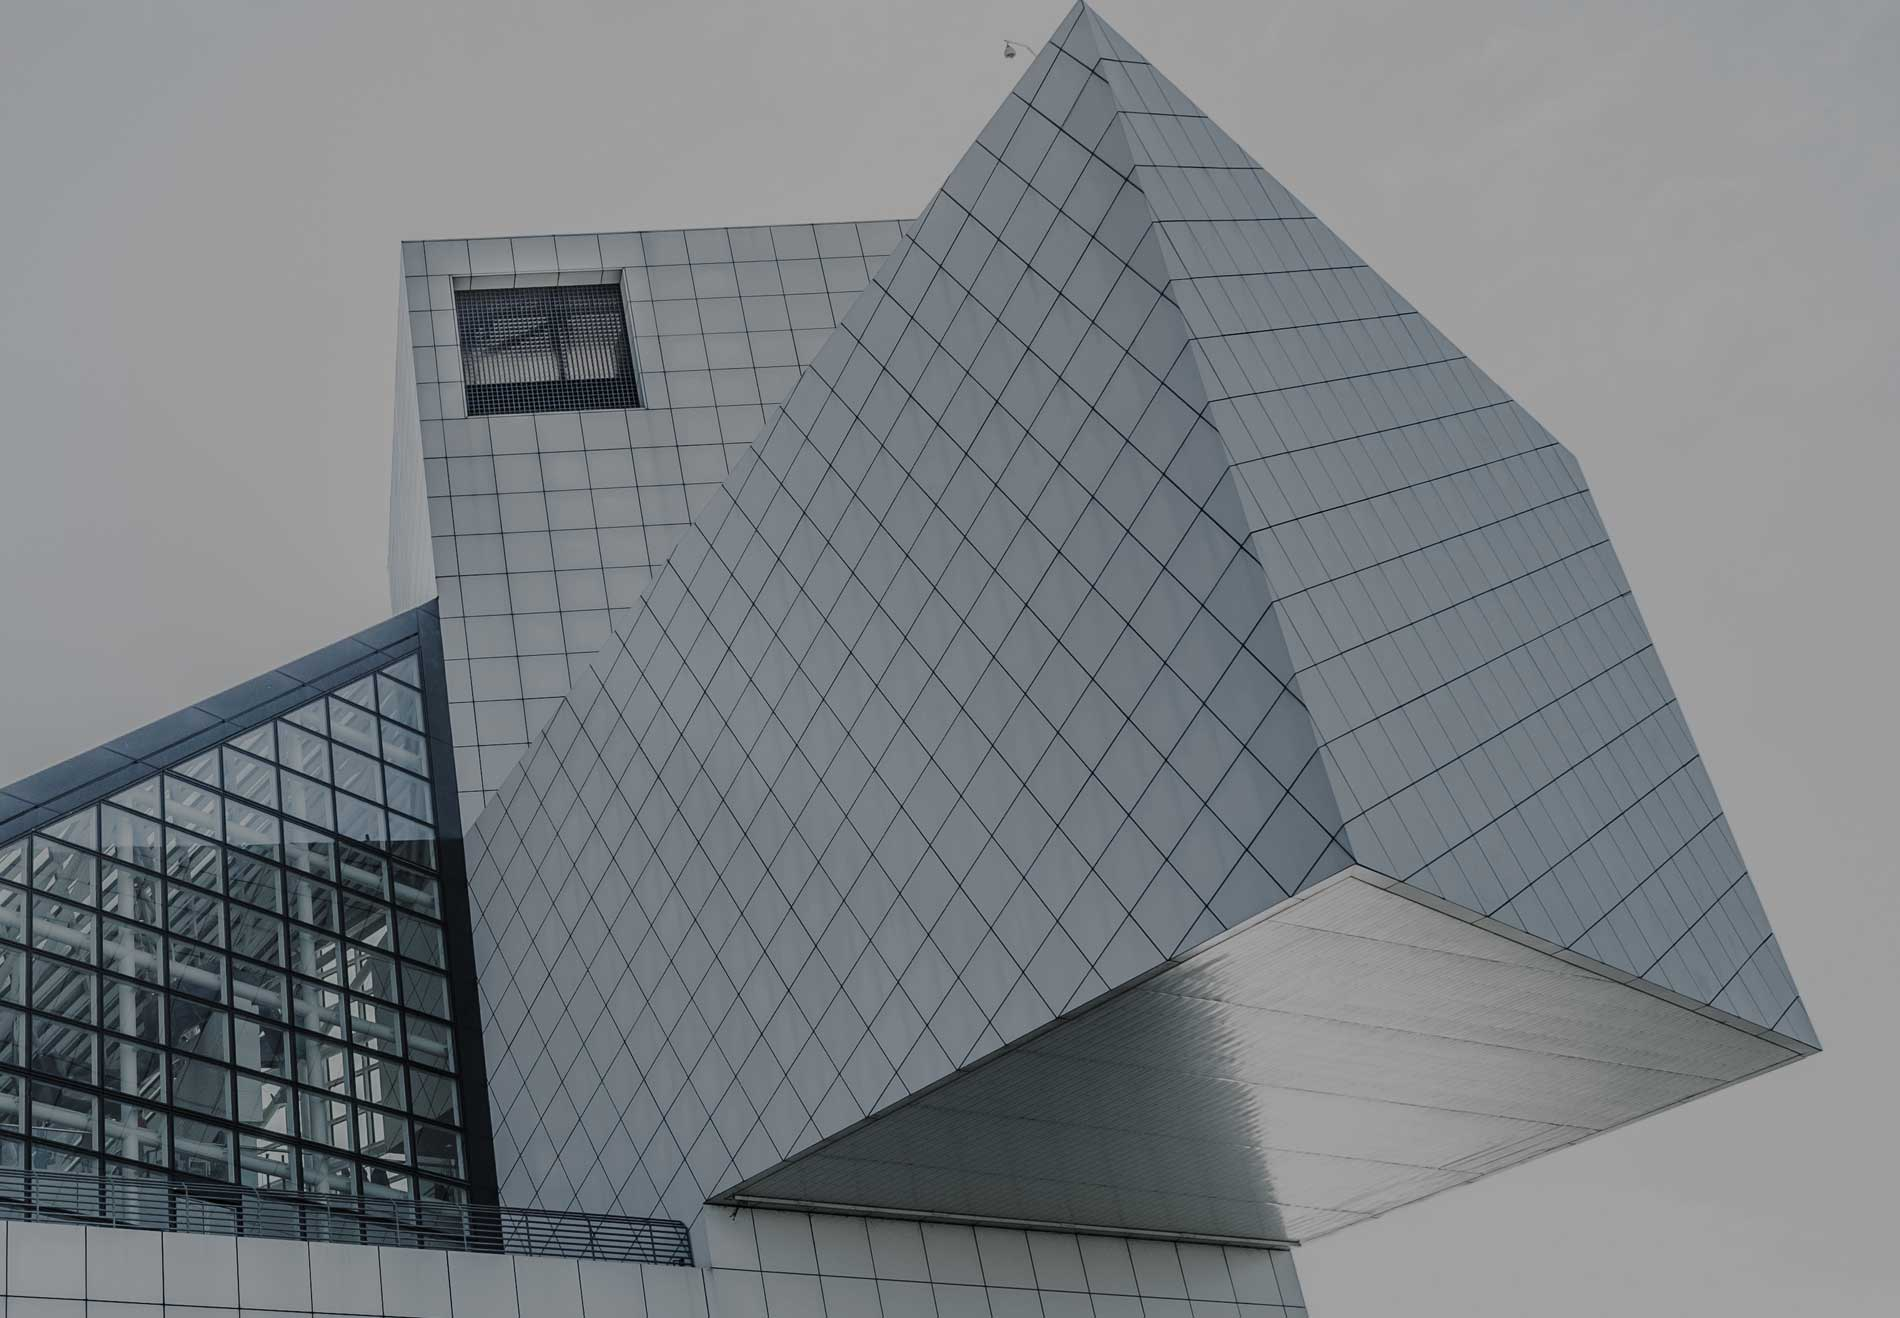
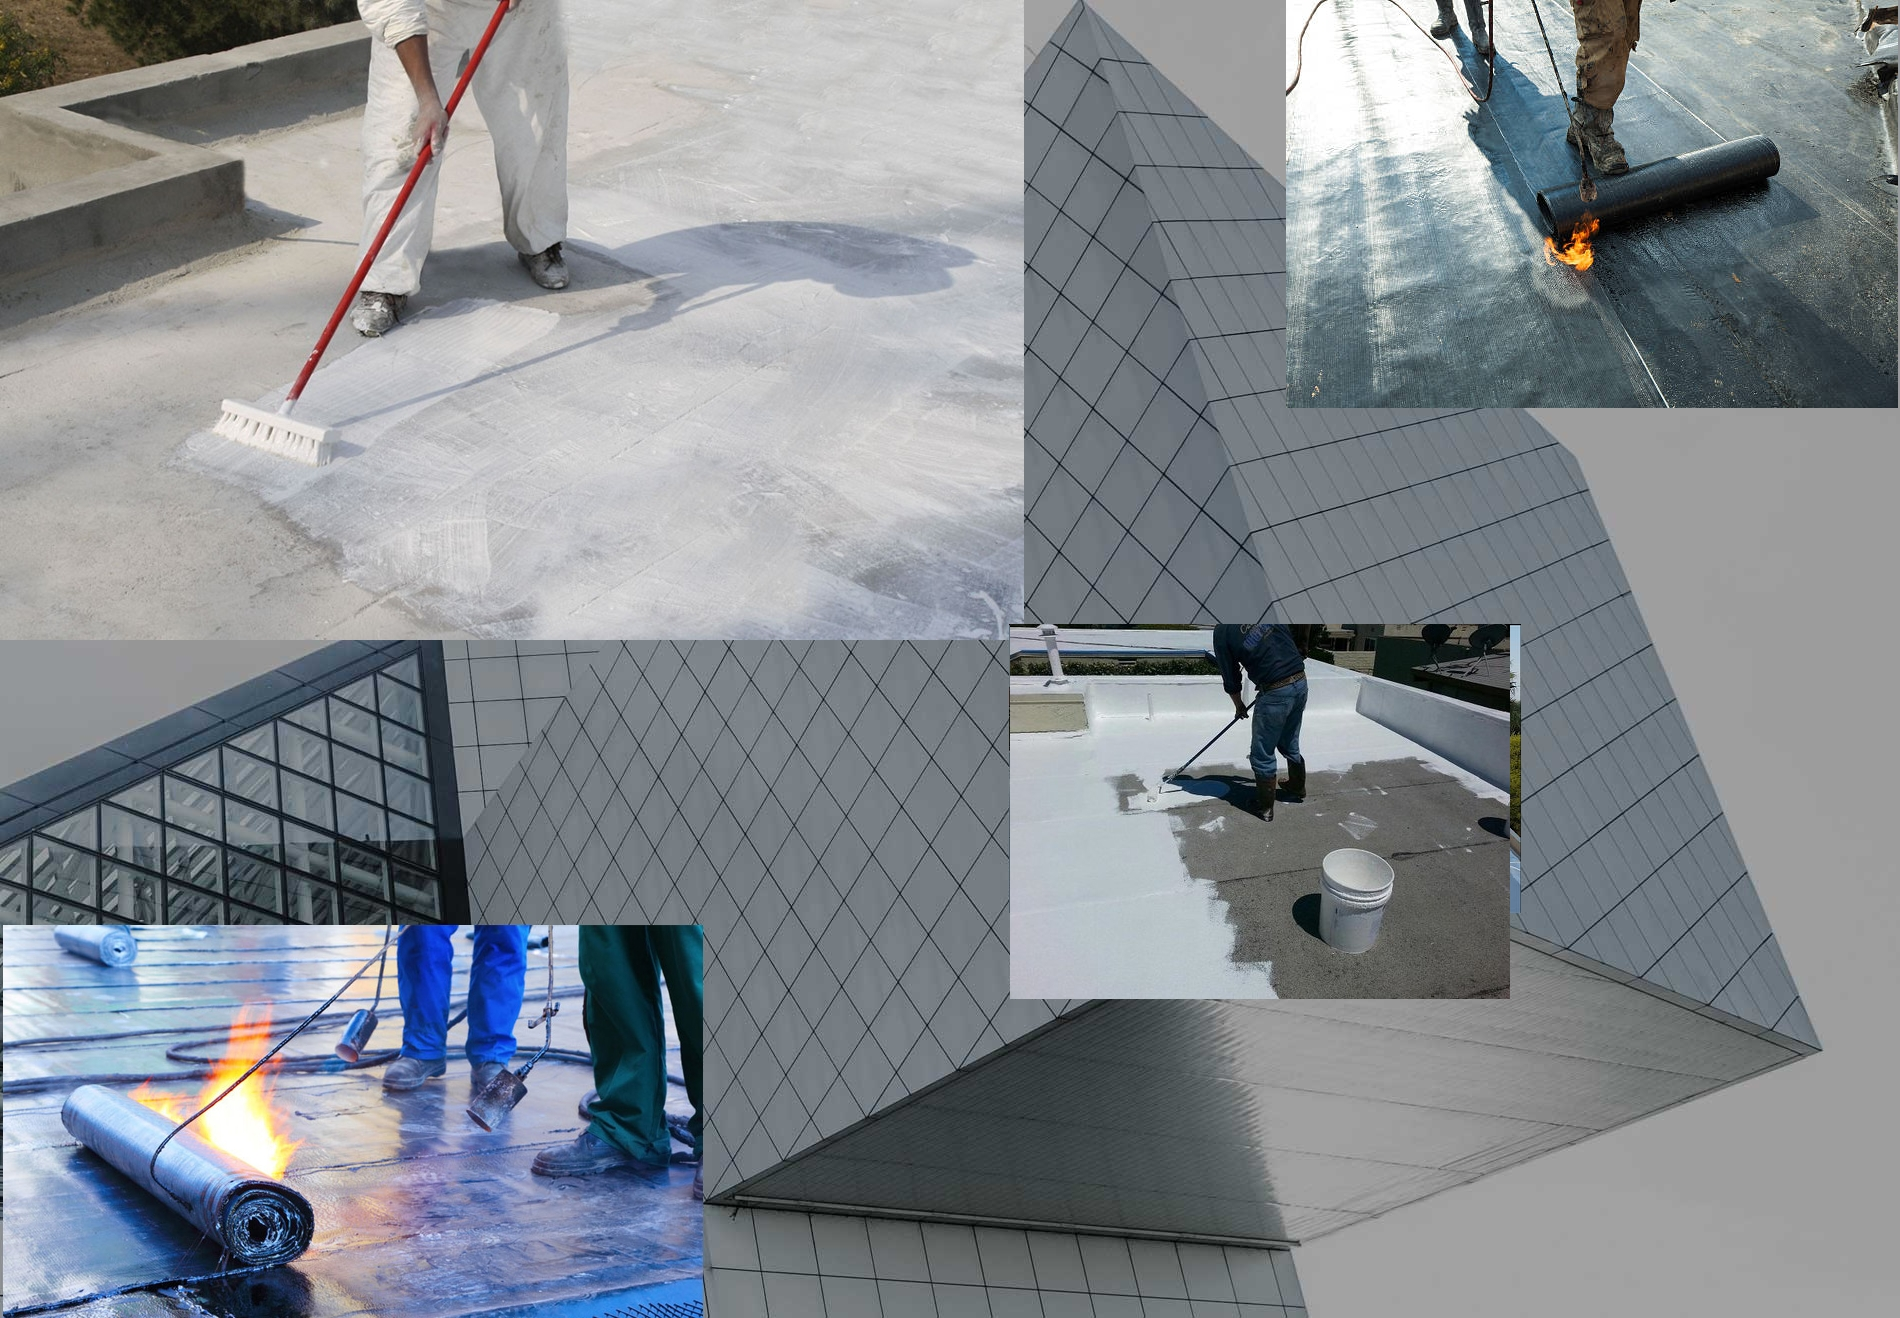
thrid

diff --git a/services-1.html b/services-1.html
@@ -1,0 +1,302 @@
+<!doctype html>
+<html lang="en">
+  <head>
+    <title>Pivot &mdash; Website Template by Colorlib</title>
+    <meta charset="utf-8">
+    <meta name="viewport" content="width=device-width, initial-scale=1, shrink-to-fit=no">
+
+    <link href="https://fonts.googleapis.com/css?family=K2D:400,700|Niramit:300,700" rel="stylesheet">
+
+    <link rel="stylesheet" href="css/bootstrap.css">
+    <link rel="stylesheet" href="css/animate.css">
+    <link rel="stylesheet" href="css/owl.carousel.min.css">
+    <link rel="stylesheet" href="css/bootstrap-datepicker.css">
+    <link rel="stylesheet" href="css/jquery.timepicker.css">
+
+    <link rel="stylesheet" href="fonts/ionicons/css/ionicons.min.css">
+    <link rel="stylesheet" href="fonts/fontawesome/css/font-awesome.min.css">
+
+    <link rel="stylesheet" href="fonts/flaticon/font/flaticon.css">
+
+    <!-- Theme Style -->
+    <link rel="stylesheet" href="css/style.css">
+
+  </head>
+  <body>
+
+    <header role="banner">
+      <nav class="navbar navbar-expand-lg navbar-light bg-light">
+        <div class="container">
+          <a class="navbar-brand position-absolute" href="index.html">Pivot</a>
+          <button class="navbar-toggler" type="button" data-toggle="collapse" data-target="#navbarsExample05" aria-controls="navbarsExample05" aria-expanded="false" aria-label="Toggle navigation">
+            <span class="navbar-toggler-icon"></span>
+          </button>
+
+          <div class="collapse navbar-collapse position-relative" id="navbarsExample05">
+            <ul class="navbar-nav mx-auto pl-lg-5 pl-0 d-flex align-items-center">
+              <li class="nav-item">
+                <a class="nav-link" href="index.html">Home</a>
+              </li>
+              <li class="nav-item dropdown">
+                <a class="nav-link dropdown-toggle active" href="services.html" id="dropdown04" data-toggle="dropdown" aria-haspopup="true" aria-expanded="false">Services</a>
+                <div class="dropdown-menu" aria-labelledby="dropdown04">
+                  <a class="dropdown-item" href="services-1.html">Pre-Construction</a>
+                  <a class="dropdown-item" href="services.html">General Construction</a>
+                  <a class="dropdown-item" href="services.html">House Renovation</a>
+                  <a class="dropdown-item" href="services.html">Plumbing</a>
+                </div>
+
+              </li>
+              <li class="nav-item">
+                <a class="nav-link" href="works.html">Projects</a>
+              </li>
+              <li class="nav-item">
+                <a class="nav-link" href="news.html">News</a>
+              </li>
+              <li class="nav-item">
+                <a class="nav-link" href="about.html">About</a>
+              </li>
+              <li class="nav-item">
+                <a class="nav-link" href="contact.html">Contact</a>
+              </li>
+              <li class="nav-item cta-btn2">
+                <a class="nav-link" href="get-quote.html">
+                  <span class="d-inline-block px-4 py-2 border">Quotation</span>
+                </a>
+              </li>
+            </ul>
+          </div>
+        </div>
+      </nav>
+    </header>
+    <!-- END header -->
+
+    <section class="inner-page">
+      <div class="slider-item py-5" style="background-image: url('img/slider-2.jpg');">
+
+        <div class="container">
+          <div class="row slider-text align-items-center justify-content-center text-center">
+            <div class="col-md-7 col-sm-12 element-animate">
+              <h1 class="text-white">Our Services</h1>
+            </div>
+          </div>
+        </div>
+
+      </div>
+    </section>
+
+    <section class="section bg-light">
+      <div class="container">
+        <div class="row">
+
+          <div class="col-lg-4 col-md-6 col-12 mb-3 element-animate">
+            <div class="media d-block media-feature text-center">
+              <span class="flaticon-blueprint icon"></span>
+              <div class="media-body">
+                <h3 class="mt-0 text-black">House Renovation</h3>
+                <p>Lorem ipsum dolor sit amet, consectetur adipisicing elit.</p>
+                <p><a href="#" class="btn btn-outline-primary btn-sm">Learn More</a></p>
+              </div>
+            </div>
+          </div>
+
+          <div class="col-lg-4 col-md-6 col-12 mb-3 element-animate">
+            <div class="media d-block media-feature text-center">
+              <span class="flaticon-building-1 icon"></span>
+              <div class="media-body">
+                <h3 class="mt-0 text-black">Construction Consultant</h3>
+                <p>Lorem ipsum dolor sit amet, consectetur adipisicing elit.</p>
+                <p><a href="#" class="btn btn-outline-primary btn-sm">Learn More</a></p>
+              </div>
+            </div>
+          </div>
+
+          <div class="col-lg-4 col-md-6 col-12 mb-3 element-animate">
+            <div class="media d-block media-feature text-center">
+              <span class="flaticon-crane icon"></span>
+              <div class="media-body">
+                <h3 class="mt-0 text-black">General Contracting</h3>
+                <p>Lorem ipsum dolor sit amet, consectetur adipisicing elit.</p>
+                <p><a href="#" class="btn btn-outline-primary btn-sm">Learn More</a></p>
+              </div>
+            </div>
+          </div>
+
+          <div class="col-lg-4 col-md-6 col-12 mb-3 element-animate">
+            <div class="media d-block media-feature text-center">
+              <span class="flaticon-helmet icon"></span>
+              <div class="media-body">
+                <h3 class="mt-0 text-black">Laminate Flooring</h3>
+                <p>Lorem ipsum dolor sit amet, consectetur adipisicing elit.</p>
+                <p><a href="#" class="btn btn-outline-primary btn-sm">Learn More</a></p>
+              </div>
+            </div>
+          </div>
+
+          <div class="col-lg-4 col-md-6 col-12 mb-3 element-animate">
+            <div class="media d-block media-feature text-center">
+              <span class="flaticon-building icon"></span>
+              <div class="media-body">
+                <h3 class="mt-0 text-black">Metal Roofing</h3>
+                <p>Lorem ipsum dolor sit amet, consectetur adipisicing elit.</p>
+                <p><a href="#" class="btn btn-outline-primary btn-sm">Learn More</a></p>
+              </div>
+            </div>
+          </div>
+
+          <div class="col-lg-4 col-md-6 col-12 mb-3 element-animate">
+            <div class="media d-block media-feature text-center">
+              <span class="flaticon-engineer icon"></span>
+              <div class="media-body">
+                <h3 class="mt-0 text-black">General Contracting</h3>
+                <p>Lorem ipsum dolor sit amet, consectetur adipisicing elit.</p>
+                <p><a href="#" class="btn btn-outline-primary btn-sm">Learn More</a></p>
+              </div>
+            </div>
+          </div>
+        </div>
+      </div>
+    </section>
+    <!-- END section -->
+
+    <section class="section border-t">
+      <div class="container">
+        <div class="row justify-content-center mb-5 element-animate">
+          <div class="col-md-8 text-center">
+            <h2 class="text-uppercase heading border-bottom mb-4">See Our Recent Works</h2>
+            <p class="mb-3 lead">Lorem ipsum dolor sit amet, consectetur adipisicing elit. Commodi unde impedit, necessitatibus, soluta sit quam minima expedita atque corrupti reiciendis.</p>
+            <p><a href="works.html" class="btn btn-primary">View All Works</a></p>
+          </div>
+        </div>
+
+        <div class="row no-gutters">
+          <div class="col-md-4 element-animate">
+            <a href="works-single.html" class="link-thumbnail">
+              <h3>Wood Polishing</h3>
+              <span class="ion-plus icon"></span>
+              <img src="img/work_thumb_1.jpg" alt="Image placeholder" class="img-fluid">
+            </a>
+          </div>
+          <div class="col-md-4 element-animate">
+            <a href="works-single.html" class="link-thumbnail">
+              <h3>General Construction Building</h3>
+              <span class="ion-plus icon"></span>
+              <img src="img/work_thumb_2.jpg" alt="Image placeholder" class="img-fluid">
+            </a>
+          </div>
+          <div class="col-md-4 element-animate">
+            <a href="works-single.html" class="link-thumbnail">
+              <h3>House Renovation</h3>
+              <span class="ion-plus icon"></span>
+              <img src="img/work_thumb_3.jpg" alt="Image placeholder" class="img-fluid">
+            </a>
+          </div>
+        </div>
+
+      </div>
+    </section>
+    <!-- END section -->
+
+
+    <section class="section">
+      <div class="container">
+        <div class="row justify-content-center mb-5 element-animate">
+          <div class="col-md-8 text-center mb-5">
+            <h2 class="text-uppercase heading border-bottom mb-4">Testimonial</h2>
+            <p class="mb-0 lead">Lorem ipsum dolor sit amet, consectetur adipisicing elit. Commodi unde impedit, necessitatibus, soluta sit quam minima expedita atque corrupti reiciendis.</p>
+          </div>
+        </div>
+
+        <div class="row">
+          <div class="col-md-6 element-animate">
+            <div class="media d-block media-testimonial text-center">
+              <img src="img/person_1.jpg" alt="Image placeholder" class="img-fluid mb-3">
+              <p>Jane Doe, <a href="#">XYZ Inc.</a></p>
+              <div class="media-body">
+                <blockquote>
+                  <p>&ldquo;Lorem ipsum dolor sit amet, consectetur adipisicing elit. Commodi unde impedit, necessitatibus, soluta sit quam minima expedita atque corrupti reiciendis.&rdquo;</p>
+                </blockquote>
+
+              </div>
+            </div>
+          </div>
+
+          <div class="col-md-6 element-animate">
+            <div class="media d-block media-testimonial text-center">
+              <img src="img/person_3.jpg" alt="Image placeholder" class="img-fluid mb-3">
+              <p>John Doe, <a href="#">XYZ Inc.</a></p>
+              <div class="media-body">
+                <blockquote>
+                  <p>&ldquo;Lorem ipsum dolor sit amet, consectetur adipisicing elit. Commodi unde impedit, necessitatibus, soluta sit quam minima expedita atque corrupti reiciendis.&rdquo;</p>
+                </blockquote>
+
+              </div>
+            </div>
+          </div>
+
+        </div>
+      </div>
+    </section>
+
+    <section class="container cta-overlap">
+      <div class="text d-flex">
+        <h2 class="h3">Contact Us For Projects or Need a Quotations</h2>
+        <div class="ml-auto btn-wrap">
+          <a href="get-quote.html" class="btn-cta btn btn-outline-white">Get A Quote</a>
+        </div>
+      </div>
+    </section>
+    <!-- END section -->
+
+    <footer class="site-footer bg-dark" role="contentinfo">
+      <div class="container">
+        <div class="row">
+          <div class="col-md-3">
+            <p>
+            <!-- Link back to Colorlib can't be removed. Template is licensed under CC BY 3.0. -->
+            Copyright &copy;<script>document.write(new Date().getFullYear());</script> All rights reserved | This template is made with <i class="fa fa-heart text-danger" aria-hidden="true"></i> by <a href="https://colorlib.com" target="_blank" >Colorlib</a>
+            <!-- Link back to Colorlib can't be removed. Template is licensed under CC BY 3.0. -->
+            </p>
+          </div>
+          <div class="col-md-3">
+            <ul class="list-unstyled footer-link">
+              <li><span class="mr-3 d-block">Address:</span><span class="text-white">34 Street Name, City Name Here, United States</span></li>
+              <li><span class="mr-3 d-block">Phone:</span><span class="text-white">+1 242 4942 290</span></li>
+              <li><span class="mr-3 d-block">Fax:</span><span class="text-white">+1 242 4942 290</span></li>
+              <li><span class="mr-3 d-block">E-mail:</span><span class="text-white">info@yourdomain.com</span></li>
+            </ul>
+          </div>
+          <div class="col-md-3">
+            <h3 class="text-white">Quick Links</h3>
+            <ul class="list-unstyled footer-link">
+              <li><a href="#">About</a></li>
+              <li><a href="#">Services</a></li>
+              <li><a href="#">Works</a></li>
+              <li><a href="#">Contact</a></li>
+            </ul>
+          </div>
+          <div class="col-md-3">
+            <h3 class="text-white">Social</h3>
+            <ul class="list-unstyled footer-link d-flex footer-social">
+              <li><a href="#" class="p-2"><span class="fa fa-twitter"></span></a></li>
+              <li><a href="#" class="p-2"><span class="fa fa-facebook"></span></a></li>
+              <li><a href="#" class="p-2"><span class="fa fa-linkedin"></span></a></li>
+              <li><a href="#" class="p-2"><span class="fa fa-instagram"></span></a></li>
+            </ul>
+          </div>
+        </div>
+      </div>
+    </footer>
+    <!-- END footer -->
+
+    <!-- loader -->
+    <div id="loader" class="show fullscreen"><svg class="circular" width="48px" height="48px"><circle class="path-bg" cx="24" cy="24" r="22" fill="none" stroke-width="4" stroke="#eeeeee"/><circle class="path" cx="24" cy="24" r="22" fill="none" stroke-width="4" stroke-miterlimit="10" stroke="#f4b214"/></svg></div>
+
+    <script src="js/jquery-3.2.1.min.js"></script>
+    <script src="js/popper.min.js"></script>
+    <script src="js/bootstrap.min.js"></script>
+    <script src="js/owl.carousel.min.js"></script>
+    <script src="js/jquery.waypoints.min.js"></script>
+    <script src="js/main.js"></script>
+  </body>
+</html>

diff --git a/index.html b/index.html
@@ -31,7 +31,7 @@
         <div class="container">
           <a class="navbar-brand position-absolute" href="index.html">
             <img class="d-none d-sm-block" style="height:12vh" src ="img/logo.jpg"/>
-            <img width="32px;"class=" d-md-none"  src ="img/logo_mob.jpg"/> 
+            <img width="32px;"class=" d-md-none"  src ="img/logo_mob.jpg"/>
 
           </a>
           <button class="navbar-toggler" type="button" data-toggle="collapse" data-target="#navbarsExample05" aria-controls="navbarsExample05" aria-expanded="false" aria-label="Toggle navigation">
@@ -46,10 +46,15 @@
               <li class="nav-item dropdown">
                 <a class="nav-link dropdown-toggle" href="services.html" id="dropdown04" data-toggle="dropdown" aria-haspopup="true" aria-expanded="false">Services</a>
                 <div class="dropdown-menu" aria-labelledby="dropdown04">
-                  <a class="dropdown-item" href="services.html">Pre-Construction</a>
-                  <a class="dropdown-item" href="services.html">General Construction</a>
-                  <a class="dropdown-item" href="services.html">House Renovation</a>
-                  <a class="dropdown-item" href="services.html">Plumbing</a>
+                  <a class="dropdown-item" href="services.html">Terrace Water Proofing</a>
+                  <a class="dropdown-item" href="services.html">Wall Dampness & Weakness</a>
+                  <a class="dropdown-item" href="services.html">Wall Crack</a>
+                  <a class="dropdown-item" href="services.html">Bathroom Leackage</a>
+                  <a class="dropdown-item" href="services.html">Expansion Joints</a>
+                  <a class="dropdown-item" href="services.html">Sump Tank Leackages</a>
+                  <a class="dropdown-item" href="services.html">Epoxy Coating</a>
+                  <a class="dropdown-item" href="services.html">Bitumen Based Water</a>
+                  <a class="dropdown-item" href="services.html">Proofing System</a>
                 </div>
 
               </li>
@@ -83,7 +88,7 @@
         <div class="container">
           <div class="row slider-text align-items-center justify-content-center text-center">
             <div class="col-md-7 col-sm-12 element-animate">
-              <h1 class="mb-4"> Fastest-Growing Construction Company</h1>
+              <h1 class="mb-4"> Fastest-Growing Water Proofing Company</h1>
               <p class="mb-0"><a href="#" target="_blank" class="btn btn-primary">Get Started</a></p>
 
             </div>
